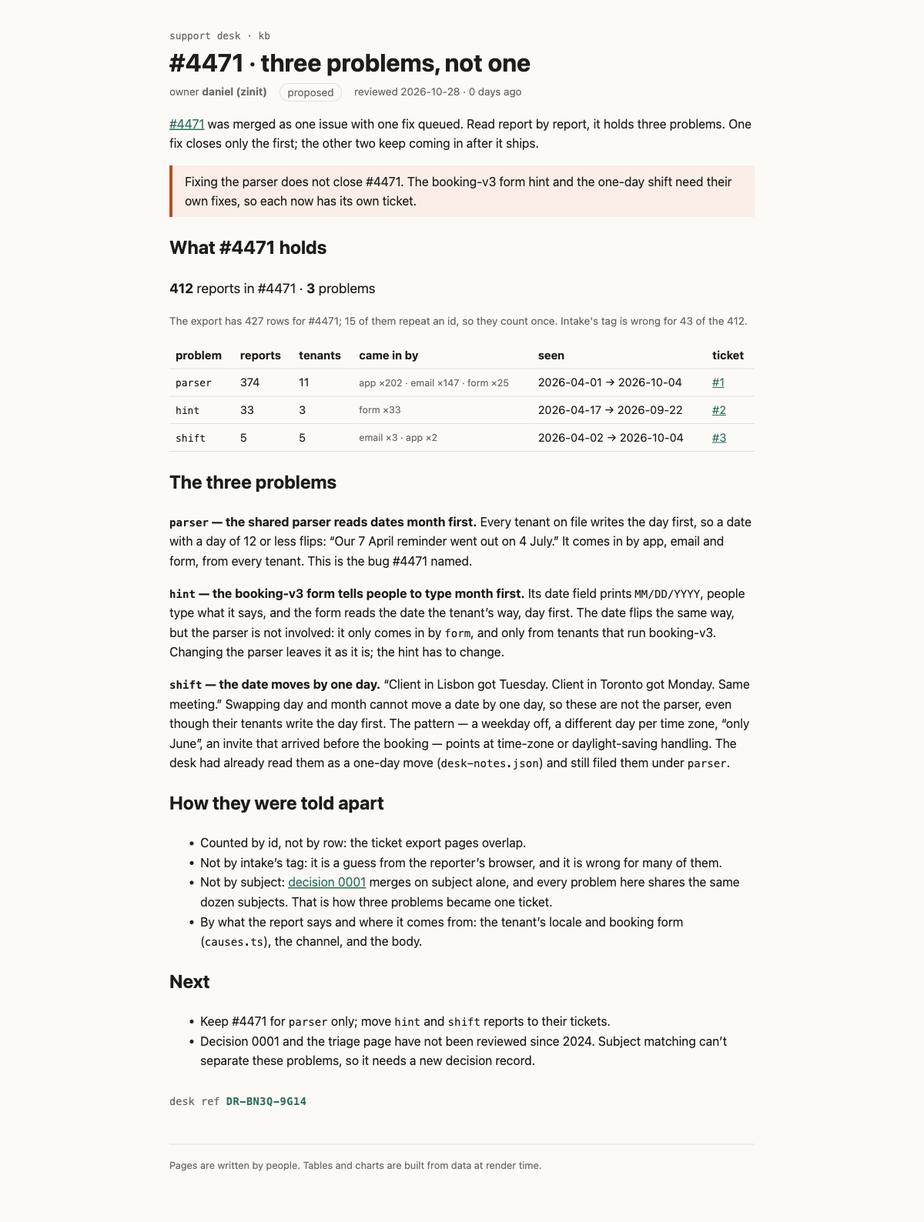
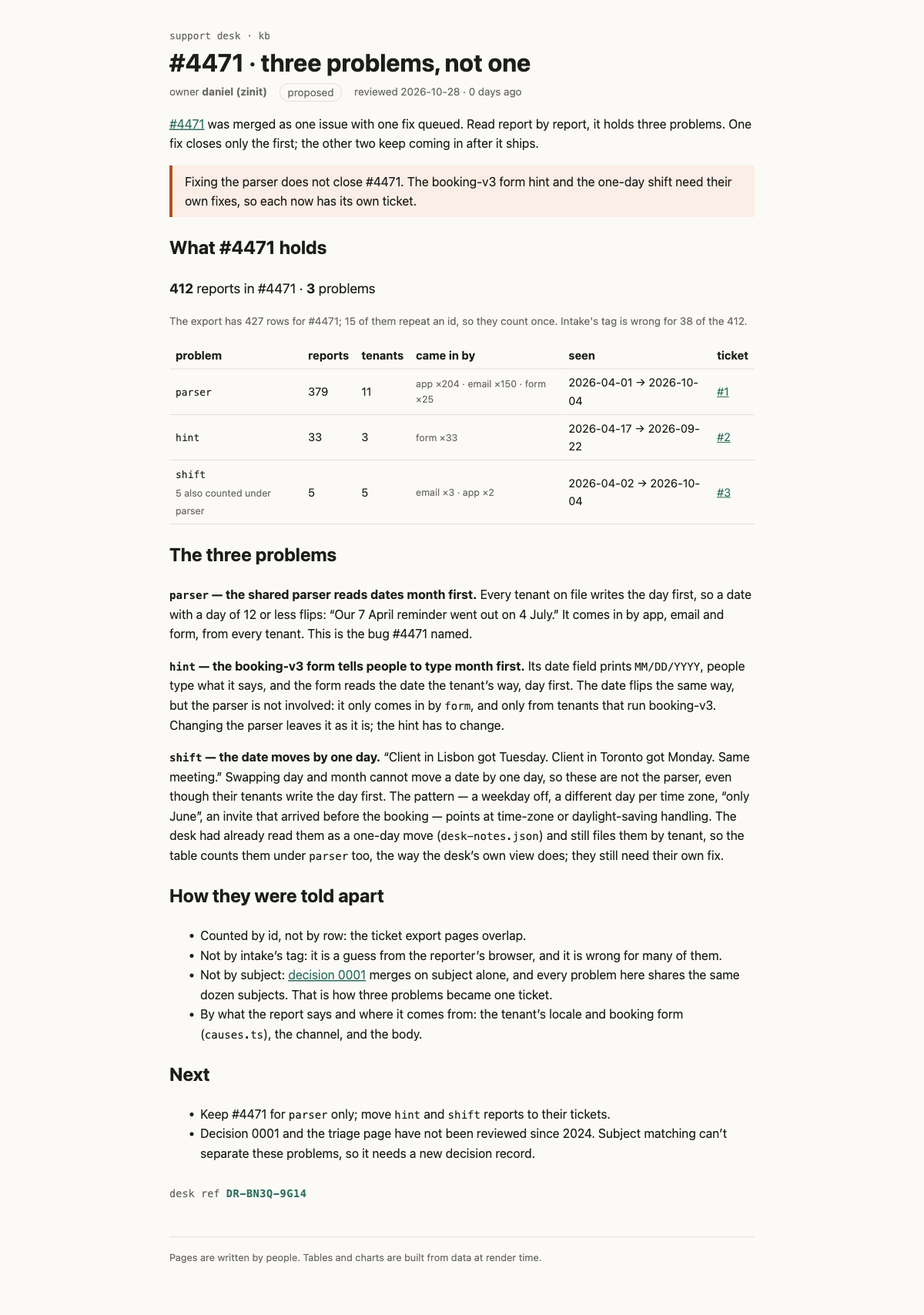
Count #4471 the way the desk's view does
parser is now 379, as in CauseTable and issue #1: the 5 one-day-shift
reports stay under parser (filed by tenant) and also show as their own
problem, shift (#3). Rebuilt page and screenshot.

diff --git a/build/kb/incidents/4471-split.html b/build/kb/incidents/4471-split.html
@@ -9,11 +9,11 @@
 		<link href="../../_app/immutable/chunks/B2Ul7l_u.js" rel="modulepreload">
 		<link href="../../_app/immutable/chunks/BCPXOG7W.js" rel="modulepreload">
 		<link href="../../_app/immutable/chunks/Dh1V97Jm.js" rel="modulepreload">
-		<link href="../../_app/immutable/entry/app.OJOM2KM1.js" rel="modulepreload">
+		<link href="../../_app/immutable/entry/app.BnFtKE7I.js" rel="modulepreload">
 		<link href="../../_app/immutable/nodes/0.C9KfiiPz.js" rel="modulepreload">
 		<link href="../../_app/immutable/chunks/DK3Fl9T5.js" rel="modulepreload">
-		<link href="../../_app/immutable/nodes/5.Ccw77O8b.js" rel="modulepreload">
-		<link href="../../_app/immutable/chunks/DW0Xgs2I.js" rel="modulepreload">
+		<link href="../../_app/immutable/nodes/5.BthChR7e.js" rel="modulepreload">
+		<link href="../../_app/immutable/chunks/DrtHdLL4.js" rel="modulepreload">
 		<link href="../../_app/immutable/chunks/BTPwLomz.js" rel="modulepreload">
 		<link href="../../_app/immutable/chunks/CVBzP17p.js" rel="modulepreload">
 		<link href="../../_app/immutable/chunks/BIy4WKJS.js" rel="modulepreload">
@@ -26,7 +26,7 @@
     <div><!--[--><!--[--><!--[0--><!--[--><!--[--><!--[-1--><!--[--><div class="kb svelte-e2jw2j"><header><a class="crumb svelte-e2jw2j" href="/kb">support desk · kb</a> <h1 class="svelte-e2jw2j">#4471 · three problems, not one</h1> <p class="meta svelte-e2jw2j"><span>owner <b>daniel (zinit)</b></span> <span class="status proposed svelte-e2jw2j">proposed</span> <span class="svelte-e2jw2j">reviewed 2026-10-28 · 0 days ago</span></p></header> <!--[-1--><!--]--> <main><p><a href="/kb/incidents/4471">#4471</a> was merged as one issue with one fix queued. Read report by report, it
 holds three problems. One fix closes only the first; the other two keep coming in after it ships.</p> <aside class="warn svelte-17bri61"><!---->Fixing the parser does not close #4471. The booking-v3 form hint and the one-day shift need their
 own fixes, so each now has its own ticket.<!----></aside><!----> <h2>What #4471 holds</h2> <p class="sum svelte-1op6c6"><strong>412</strong> reports in #4471 · <strong>3</strong> problems</p> <p class="note svelte-1op6c6">The export has 427 rows for #4471; 15 of them repeat an id, so they count once.
-  Intake's tag is wrong for 43 of the 412.</p> <table><thead><tr><th>problem</th><th>reports</th><th>tenants</th><th>came in by</th><th>seen</th><th>ticket</th></tr></thead><tbody><!--[--><tr><td><code>parser</code></td><td>374</td><td>11</td><td class="tags svelte-1op6c6">app ×202 · email ×147 · form ×25</td><td>2026-04-01 → 2026-10-04</td><td><!--[0--><a href="https://github.com/zinit/support-kb-4471/issues/1">#1</a><!--]--></td></tr><tr><td><code>hint</code></td><td>33</td><td>3</td><td class="tags svelte-1op6c6">form ×33</td><td>2026-04-17 → 2026-09-22</td><td><!--[0--><a href="https://github.com/zinit/support-kb-4471/issues/2">#2</a><!--]--></td></tr><tr><td><code>shift</code></td><td>5</td><td>5</td><td class="tags svelte-1op6c6">email ×3 · app ×2</td><td>2026-04-02 → 2026-10-04</td><td><!--[0--><a href="https://github.com/zinit/support-kb-4471/issues/3">#3</a><!--]--></td></tr><!--]--></tbody></table><!----> <h2>The three problems</h2> <p><strong><code>parser</code> — the shared parser reads dates month first.</strong> Every tenant on file writes the day
+  Intake's tag is wrong for 38 of the 412.</p> <table><thead><tr><th>problem</th><th>reports</th><th>tenants</th><th>came in by</th><th>seen</th><th>ticket</th></tr></thead><tbody><!--[--><tr><td><code>parser</code><!--[-1--><!--]--></td><td>379</td><td>11</td><td class="tags svelte-1op6c6">app ×204 · email ×150 · form ×25</td><td>2026-04-01 → 2026-10-04</td><td><!--[0--><a href="https://github.com/zinit/support-kb-4471/issues/1">#1</a><!--]--></td></tr><tr><td><code>hint</code><!--[-1--><!--]--></td><td>33</td><td>3</td><td class="tags svelte-1op6c6">form ×33</td><td>2026-04-17 → 2026-09-22</td><td><!--[0--><a href="https://github.com/zinit/support-kb-4471/issues/2">#2</a><!--]--></td></tr><tr><td><code>shift</code><!--[0--><br/><span class="tags svelte-1op6c6">5 also counted under parser</span><!--]--></td><td>5</td><td>5</td><td class="tags svelte-1op6c6">email ×3 · app ×2</td><td>2026-04-02 → 2026-10-04</td><td><!--[0--><a href="https://github.com/zinit/support-kb-4471/issues/3">#3</a><!--]--></td></tr><!--]--></tbody></table><!----> <h2>The three problems</h2> <p><strong><code>parser</code> — the shared parser reads dates month first.</strong> Every tenant on file writes the day
 first, so a date with a day of 12 or less flips: “Our 7 April reminder went out on 4 July.” It
 comes in by app, email and form, from every tenant. This is the bug #4471 named.</p> <p><strong><code>hint</code> — the booking-v3 form tells people to type month first.</strong> Its date field prints <code>MM/DD/YYYY</code>, people type what it says, and the form reads the date the tenant’s way, day first.
 The date flips the same way, but the parser is not involved: it only comes in by <code>form</code>, and only
@@ -35,7 +35,7 @@ Monday. Same meeting.” Swapping day and month cannot move a date by one day, s
 parser, even though their tenants write the day first. The pattern — a weekday off, a different
 day per time zone, “only June”, an invite that arrived before the booking — points at time-zone
 or daylight-saving handling. The desk had already read them as a one-day move
-(<code>desk-notes.json</code>) and still filed them under <code>parser</code>.</p> <h2>How they were told apart</h2> <ul><li>Counted by id, not by row: the ticket export pages overlap.</li> <li>Not by intake’s tag: it is a guess from the reporter’s browser, and it is wrong for many of them.</li> <li>Not by subject: <a href="/kb/decisions/0001-dedupe-by-subject">decision 0001</a> merges on subject alone,
+(<code>desk-notes.json</code>) and still files them by tenant, so the table counts them under <code>parser</code> too, the way the desk’s own view does; they still need their own fix.</p> <h2>How they were told apart</h2> <ul><li>Counted by id, not by row: the ticket export pages overlap.</li> <li>Not by intake’s tag: it is a guess from the reporter’s browser, and it is wrong for many of them.</li> <li>Not by subject: <a href="/kb/decisions/0001-dedupe-by-subject">decision 0001</a> merges on subject alone,
 and every problem here shares the same dozen subjects. That is how three problems became one
 ticket.</li> <li>By what the report says and where it comes from: the tenant’s locale and booking form
 (<code>causes.ts</code>), the channel, and the body.</li></ul> <h2>Next</h2> <ul><li>Keep #4471 for <code>parser</code> only; move <code>hint</code> and <code>shift</code> reports to their tickets.</li> <li>Decision 0001 and the triage page have not been reviewed since 2024. Subject matching can’t
@@ -43,16 +43,16 @@ separate these problems, so it needs a new decision record.</li></ul> <!--[0--><
 			
 			<script>
 				{
-					__sveltekit_1o5xas1 = {
+					__sveltekit_1kb5uz5 = {
 						base: new URL("../..", location).pathname.slice(0, -1),
-						version: "1793203120930"
+						version: "1793206155184"
 					};
 
 					const element = document.currentScript.parentElement;
 
 					import("../../_app/immutable/entry/start.CH5w6lId.js").then(async (kit) => {
-						kit.init(__sveltekit_1o5xas1);
-						const app = await import("../../_app/immutable/entry/app.OJOM2KM1.js");
+						kit.init(__sveltekit_1kb5uz5);
+						const app = await import("../../_app/immutable/entry/app.BnFtKE7I.js");
 						kit.start(app, element, {
 							node_ids: [0, 5],
 							data: [null,null],

diff --git a/build/_app/immutable/chunks/DrtHdLL4.js b/build/_app/immutable/chunks/DrtHdLL4.js
@@ -1,0 +1,17 @@
+import{t as e}from"./DK3Fl9T5.js";import{E as t,F as n,H as r,I as i,K as a,L as o,N as s,O as c,R as l,S as u,T as d,U as f,W as p,_ as m,c as h,h as g,k as _,n as v,q as y,r as b,t as x,w as S}from"./BCPXOG7W.js";import{t as C}from"./BTPwLomz.js";import{n as w,t as T}from"./CVBzP17p.js";import{i as E,l as D,r as O,t as k}from"./BIy4WKJS.js";function A(e,t,n={}){let r=t.map(e=>e.receivedAt.slice(0,10)).sort();return{problem:e,reports:t,alsoIn:n,tenants:[...new Set(t.map(e=>e.tenant))].sort(),channels:t.reduce((e,t)=>({...e,[t.channel]:(e[t.channel]??0)+1}),{}),firstSeen:r[0],lastSeen:r[r.length-1]}}function j(e,t,n,r){let i=D(e).filter(e=>e.mergedInto===t),a=e=>E(e,n(e))??`unplaced`,o=new Map;for(let e of i)o.set(a(e),[...o.get(a(e))??[],e]);let s=[...o.entries()].map(([e,t])=>A(e,t)).sort((e,t)=>t.reports.length-e.reports.length),c=i.filter(e=>r.includes(e.id));if(c.length){let e=c.reduce((e,t)=>({...e,[a(t)]:(e[a(t)]??0)+1}),{});s.push(A(`shift`,c,e))}return{rows:e.filter(e=>e.mergedInto===t).length,merged:i,groups:s}}function M(e){return e.filter(e=>e.problem!==`shift`).reduce((e,t)=>e+t.reports.filter(e=>e.meta.intakeTag!==t.problem).length,0)}var N=t(`<br/><span class="tags svelte-1op6c6"> </span>`,1),P=t(`<a> </a>`),F=t(`<tr><td><code> </code><!></td><td> </td><td> </td><td class="tags svelte-1op6c6"> </td><td> </td><td><!></td></tr>`),I=t(`<p class="sum svelte-1op6c6"><strong> </strong> <strong> </strong> </p> <p class="note svelte-1op6c6"> </p> <table><thead><tr><th>problem</th><th>reports</th><th>tenants</th><th>came in by</th><th>seen</th><th>ticket</th></tr></thead><tbody></tbody></table>`,1);function L(e,t){p(t,!0);let a=v(t,`issues`,19,()=>({})),d=r(()=>j(w,t.ticket,O,T.oneDayMove)),b=r(()=>M(_(d).groups)),x=e=>Object.entries(e).sort((e,t)=>t[1]-e[1]).map(([e,t])=>`${e} ×${t}`).join(` · `),C=e=>`#`+e.split(`/`).pop(),E=e=>Object.entries(e.alsoIn).map(([e,t])=>`${t} also counted under ${e}`).join(` · `);var D=I(),k=i(D),A=n(k),L=o(A,!0),R=l(A),z=l(R),B=o(z,!0),V=l(z);y(k);var H=l(k,2),U=o(H),W=l(H,2),G=l(n(W));g(G,21,()=>_(d).groups,e=>e.problem,(e,t)=>{var d=F(),f=n(d),p=n(f),g=o(p,!0),v=l(p),b=e=>{var n=N(),r=l(i(n)),a=o(r,!0);s(e=>u(a,e),[()=>E(_(t))]),S(e,n)},w=r(()=>E(_(t)));m(v,e=>{_(w)&&e(b)}),y(f);var T=l(f),D=o(T,!0),O=l(T),k=o(O,!0),A=l(O),j=o(A,!0),M=l(A),I=o(M),L=l(M),R=n(L),z=e=>{var n=P(),r=o(n,!0);s(e=>{h(n,`href`,a()[_(t).problem]),u(r,e)},[()=>C(a()[_(t).problem])]),S(e,n)},B=e=>{var t=c(`none yet`);S(e,t)};m(R,e=>{a()[_(t).problem]?e(z):e(B,-1)}),y(L),y(d),s(e=>{u(g,_(t).problem),u(D,_(t).reports.length),u(k,_(t).tenants.length),u(j,e),u(I,`${_(t).firstSeen??``} → ${_(t).lastSeen??``}`)},[()=>x(_(t).channels)]),S(e,d)}),y(G),y(W),s(()=>{u(L,_(d).merged.length),u(R,` reports in #${t.ticket??``} · `),u(B,_(d).groups.length),u(V,` ${_(d).groups.length===1?`problem`:`problems`}`),u(U,`The export has ${_(d).rows??``} rows for #${t.ticket??``}; ${_(d).rows-_(d).merged.length} of them repeat an id, so they count once.
+  Intake's tag is wrong for ${_(b)??``} of the ${_(d).merged.length??``}.`)}),S(e,D),f()}var R=`0123456789ABCDEFGHJKMNPQRSTVWXYZ`;function z(e,t){let n=t>>>0;for(let t=0;t<e.length;t++)n^=e.charCodeAt(t),n=Math.imul(n,16777619)>>>0;return n}function B(e){let t=e.trim(),n=z(t,2166136261),r=z(t,2654435769),i=BigInt(n)<<8n|BigInt(r&255),a=``;for(let e=0;e<8;e++)a=R[Number(i&31n)]+a,i>>=5n;return`DR-${a.slice(0,4)}-${a.slice(4)}`}var V=t(`<p class="stamp svelte-1280m42">desk ref <b class="svelte-1280m42"> </b></p>`),H=t(`<p class="stamp missing svelte-1280m42">no desk ref: this page isn't signed (no <code>signature</code> in its frontmatter)</p>`);function U(e,t){p(t,!0);let a=r(()=>t.signature?B(t.signature):null);var c=d(),h=i(c),g=e=>{var t=V(),r=l(n(t)),i=o(r,!0);y(t),s(()=>u(i,_(a))),S(e,t)},v=e=>{var t=H();S(e,t)};m(h,e=>{_(a)?e(g):e(v,-1)}),S(e,c),f()}var W=e({default:()=>$,metadata:()=>G}),G={layout:`runbook`,title:`#4471 · three problems, not one`,owner:`daniel (zinit)`,status:`proposed`,reviewed:`2026-10-28T00:00:00.000Z`,signature:`v1.eyJzdWIiOiIzODkiLCJhdWQiOiJjaGFsbGVuZ2U6d2hhdC1pdC1zaG93cyIsImlhdCI6MTc5MzIwMjg4NCwiZXhwIjoxNzkzMjg5Mjg0fQ.0hZym8z9fC6aI63_r2wCG0tWzW67Vh3JRD2o_1kaY8k`},{layout:K,title:q,owner:J,status:Y,reviewed:X,signature:Z}=G,Q=t(`<p><a href="/kb/incidents/4471">#4471</a> was merged as one issue with one fix queued. Read report by report, it
+holds three problems. One fix closes only the first; the other two keep coming in after it ships.</p> <!> <h2>What #4471 holds</h2> <!> <h2>The three problems</h2> <p><strong><code>parser</code> — the shared parser reads dates month first.</strong> Every tenant on file writes the day
+first, so a date with a day of 12 or less flips: “Our 7 April reminder went out on 4 July.” It
+comes in by app, email and form, from every tenant. This is the bug #4471 named.</p> <p><strong><code>hint</code> — the booking-v3 form tells people to type month first.</strong> Its date field prints <code>MM/DD/YYYY</code>, people type what it says, and the form reads the date the tenant’s way, day first.
+The date flips the same way, but the parser is not involved: it only comes in by <code>form</code>, and only
+from tenants that run booking-v3. Changing the parser leaves it as it is; the hint has to change.</p> <p><strong><code>shift</code> — the date moves by one day.</strong> “Client in Lisbon got Tuesday. Client in Toronto got
+Monday. Same meeting.” Swapping day and month cannot move a date by one day, so these are not the
+parser, even though their tenants write the day first. The pattern — a weekday off, a different
+day per time zone, “only June”, an invite that arrived before the booking — points at time-zone
+or daylight-saving handling. The desk had already read them as a one-day move
+(<code>desk-notes.json</code>) and still files them by tenant, so the table counts them under <code>parser</code> too, the way the desk’s own view does; they still need their own fix.</p> <h2>How they were told apart</h2> <ul><li>Counted by id, not by row: the ticket export pages overlap.</li> <li>Not by intake’s tag: it is a guess from the reporter’s browser, and it is wrong for many of them.</li> <li>Not by subject: <a href="/kb/decisions/0001-dedupe-by-subject">decision 0001</a> merges on subject alone,
+and every problem here shares the same dozen subjects. That is how three problems became one
+ticket.</li> <li>By what the report says and where it comes from: the tenant’s locale and booking form
+(<code>causes.ts</code>), the channel, and the body.</li></ul> <h2>Next</h2> <ul><li>Keep #4471 for <code>parser</code> only; move <code>hint</code> and <code>shift</code> reports to their tickets.</li> <li>Decision 0001 and the triage page have not been reviewed since 2024. Subject matching can’t
+separate these problems, so it needs a new decision record.</li></ul> <!>`,1);function $(e,t){let n=x(t,[`children`,`$$slots`,`$$events`,`$$legacy`]),r=`https://github.com/zinit/support-kb-4471/issues`,o={parser:`${r}/1`,hint:`${r}/2`,shift:`${r}/3`};C(e,b(()=>n,()=>G,{children:(e,t)=>{var n=Q(),r=l(i(n),2);k(r,{kind:`warn`,children:(e,t)=>{a();var n=c(`Fixing the parser does not close #4471. The booking-v3 form hint and the one-day shift need their
+own fixes, so each now has its own ticket.`);S(e,n)},$$slots:{default:!0}});var s=l(r,4);L(s,{ticket:4471,get issues(){return o}}),U(l(s,18),{get signature(){return Z}}),S(e,n)},$$slots:{default:!0}}))}export{$ as n,W as t};

diff --git a/src/lib/kb/problems.ts b/src/lib/kb/problems.ts
@@ -3,23 +3,34 @@
 import { causeOf, uniqueById, type Report, type Tenant } from '#lib/kb/causes';
 
 // `shift`: the date moves by one day (a weekday off, a different day per time zone). Swapping day
-// and month cannot do that, so these are not `parser` even when the tenant writes the day first.
-// The desk found them by reading (desk-notes.json `oneDayMove`).
+// and month cannot do that, so it needs its own fix. The desk found these by reading
+// (desk-notes.json `oneDayMove`) and still files them by tenant, so its view counts them under their
+// cause as well: they are a problem of their own, and also part of that cause's count.
 export type Problem = 'parser' | 'hint' | 'shift' | 'unplaced';
-
-export function problemOf(r: Report, t: Tenant | undefined, oneDayMove: readonly string[]): Problem {
-  if (oneDayMove.includes(r.id)) return 'shift';
-  return causeOf(r, t) ?? 'unplaced';
-}
 
 export type ProblemGroup = {
   problem: Problem;
   reports: Report[];
+  // For `shift`: the cause the desk also counts these reports under, cause → count.
+  alsoIn: Partial<Record<Problem, number>>;
   tenants: string[];
   channels: Record<string, number>;
   firstSeen: string;
   lastSeen: string;
 };
+
+function group(problem: Problem, rs: Report[], alsoIn: ProblemGroup['alsoIn'] = {}): ProblemGroup {
+  const days = rs.map((r) => r.receivedAt.slice(0, 10)).sort();
+  return {
+    problem,
+    reports: rs,
+    alsoIn,
+    tenants: [...new Set(rs.map((r) => r.tenant))].sort(),
+    channels: rs.reduce<Record<string, number>>((n, r) => ({ ...n, [r.channel]: (n[r.channel] ?? 0) + 1 }), {}),
+    firstSeen: days[0],
+    lastSeen: days[days.length - 1],
+  };
+}
 
 export function splitTicket(
   all: Report[],
@@ -28,28 +39,22 @@ export function splitTicket(
   oneDayMove: readonly string[],
 ): { rows: number; merged: Report[]; groups: ProblemGroup[] } {
   const merged = uniqueById(all).filter((r) => r.mergedInto === ticket);
+  const cause = (r: Report): Problem => causeOf(r, tenantOf(r)) ?? 'unplaced';
   const by = new Map<Problem, Report[]>();
-  for (const r of merged) {
-    const p = problemOf(r, tenantOf(r), oneDayMove);
-    by.set(p, [...(by.get(p) ?? []), r]);
+  for (const r of merged) by.set(cause(r), [...(by.get(cause(r)) ?? []), r]);
+  const groups = [...by.entries()].map(([p, rs]) => group(p, rs)).sort((a, b) => b.reports.length - a.reports.length);
+
+  const shifted = merged.filter((r) => oneDayMove.includes(r.id));
+  if (shifted.length) {
+    const alsoIn = shifted.reduce<ProblemGroup['alsoIn']>((n, r) => ({ ...n, [cause(r)]: (n[cause(r)] ?? 0) + 1 }), {});
+    groups.push(group('shift', shifted, alsoIn));
   }
-  const groups = [...by.entries()]
-    .map(([problem, rs]) => {
-      const days = rs.map((r) => r.receivedAt.slice(0, 10)).sort();
-      return {
-        problem,
-        reports: rs,
-        tenants: [...new Set(rs.map((r) => r.tenant))].sort(),
-        channels: rs.reduce<Record<string, number>>((n, r) => ({ ...n, [r.channel]: (n[r.channel] ?? 0) + 1 }), {}),
-        firstSeen: days[0],
-        lastSeen: days[days.length - 1],
-      };
-    })
-    .sort((a, b) => b.reports.length - a.reports.length);
   return { rows: all.filter((r) => r.mergedInto === ticket).length, merged, groups };
 }
 
-// What intake tagged the merged reports as, against what they are.
+// Reports whose intake tag names a different cause than the one they belong to.
 export function tagMisses(groups: ProblemGroup[]): number {
-  return groups.reduce((n, g) => n + g.reports.filter((r) => r.meta.intakeTag !== g.problem).length, 0);
+  return groups
+    .filter((g) => g.problem !== 'shift')
+    .reduce((n, g) => n + g.reports.filter((r) => r.meta.intakeTag !== g.problem).length, 0);
 }

diff --git a/build/_app/immutable/nodes/2.Bys0thjK.js b/build/_app/immutable/nodes/2.Bys0thjK.js
@@ -1,0 +1,2 @@
+import{E as e,F as t,I as n,K as r,L as i,N as a,R as o,S as s,U as c,W as l,c as u,d,h as f,i as p,k as m,q as h,r as g,t as _,w as v}from"../chunks/BCPXOG7W.js";import{n as y,r as b,t as x}from"../chunks/BTPwLomz.js";import{t as S}from"../chunks/YX22L_Ud.js";import{t as C}from"../chunks/CgeRC4yK.js";import{t as w}from"../chunks/DrtHdLL4.js";import{t as T}from"../chunks/BGqJVSDw.js";var E=e(`<tr><td><a> </a></td><td> </td><td> </td><td> </td></tr>`),D=e(`<table><thead><tr><th>page</th><th>owner</th><th>status</th><th>reviewed</th></tr></thead><tbody></tbody></table>`);function O(e,n){l(n,!1);let r=Object.entries(Object.assign({"/src/routes/kb/decisions/0001-dedupe-by-subject/+page.svx":S,"/src/routes/kb/incidents/4471/+page.svx":C,"/src/routes/kb/incidents/4471-split/+page.svx":w,"/src/routes/kb/triage/dedupe/+page.svx":T})).map(([e,t])=>({href:e.replace(`/src/routes`,``).replace(`/+page.svx`,``),...t.metadata})).sort((e,t)=>e.href.localeCompare(t.href));p();var g=D(),_=o(t(g));f(_,5,()=>r,e=>e.href,(e,n)=>{var r=E(),c=t(r),l=t(c),f=i(l,!0);h(c);var p=o(c),g=i(p,!0),_=o(p),x=i(_,!0),S=o(_);let C;var w=i(S,!0);h(r),a((e,t)=>{u(l,`href`,m(n).href),s(f,m(n).title),s(g,m(n).owner),s(x,m(n).status),C=d(S,1,`svelte-tbc1ha`,null,C,{stale:e}),s(w,t)},[()=>y(m(n).reviewed)>180,()=>b(m(n).reviewed)]),v(e,r)}),h(_),h(g),v(e,g),c()}var k={layout:`runbook`,title:`Support knowledge base`,owner:`support desk`,status:`living`,reviewed:`2026-09-28T00:00:00.000Z`},{layout:A,title:j,owner:M,status:N,reviewed:P}=k,F=e(`<p>What the support desk knows, kept next to the code that knows it. One desk, every product: <code>sched-prod</code> (calendar invites for about 300k people) and the rest. When something breaks, the reports land here first.</p> <p>Start with <a href="/kb/triage/dedupe">triage</a> if you are new on the desk.</p> <h2>Pages</h2> <!> <h2>Writing a page</h2> <p>Keep the words here and the logic in <code>src/lib</code>. A number that can be computed should be
+computed by a component, not typed into a paragraph.</p>`,1);function I(e,t){let i=_(t,[`children`,`$$slots`,`$$events`,`$$legacy`]);x(e,g(()=>i,()=>k,{children:(e,t)=>{var i=F();O(o(n(i),6),{}),r(4),v(e,i)},$$slots:{default:!0}}))}export{I as component};

diff --git a/build/kb.html b/build/kb.html
@@ -9,16 +9,16 @@
 		<link href="./_app/immutable/chunks/B2Ul7l_u.js" rel="modulepreload">
 		<link href="./_app/immutable/chunks/BCPXOG7W.js" rel="modulepreload">
 		<link href="./_app/immutable/chunks/Dh1V97Jm.js" rel="modulepreload">
-		<link href="./_app/immutable/entry/app.OJOM2KM1.js" rel="modulepreload">
+		<link href="./_app/immutable/entry/app.BnFtKE7I.js" rel="modulepreload">
 		<link href="./_app/immutable/nodes/0.C9KfiiPz.js" rel="modulepreload">
 		<link href="./_app/immutable/chunks/DK3Fl9T5.js" rel="modulepreload">
-		<link href="./_app/immutable/nodes/2.DELOjK7q.js" rel="modulepreload">
+		<link href="./_app/immutable/nodes/2.Bys0thjK.js" rel="modulepreload">
 		<link href="./_app/immutable/chunks/BTPwLomz.js" rel="modulepreload">
 		<link href="./_app/immutable/chunks/YX22L_Ud.js" rel="modulepreload">
 		<link href="./_app/immutable/chunks/CgeRC4yK.js" rel="modulepreload">
 		<link href="./_app/immutable/chunks/CVBzP17p.js" rel="modulepreload">
 		<link href="./_app/immutable/chunks/BIy4WKJS.js" rel="modulepreload">
-		<link href="./_app/immutable/chunks/DW0Xgs2I.js" rel="modulepreload">
+		<link href="./_app/immutable/chunks/DrtHdLL4.js" rel="modulepreload">
 		<link href="./_app/immutable/chunks/BGqJVSDw.js" rel="modulepreload">
 		<!--e2jw2j--><!----><title>Support knowledge base · support kb</title>
 		<link href="./_app/immutable/assets/runbook.COyw0cbZ.css" rel="stylesheet">
@@ -34,16 +34,16 @@ computed by a component, not typed into a paragraph.</p><!----></main> <footer c
 			
 			<script>
 				{
-					__sveltekit_1o5xas1 = {
+					__sveltekit_1kb5uz5 = {
 						base: new URL(".", location).pathname.slice(0, -1),
-						version: "1793203120930"
+						version: "1793206155184"
 					};
 
 					const element = document.currentScript.parentElement;
 
 					import("./_app/immutable/entry/start.CH5w6lId.js").then(async (kit) => {
-						kit.init(__sveltekit_1o5xas1);
-						const app = await import("./_app/immutable/entry/app.OJOM2KM1.js");
+						kit.init(__sveltekit_1kb5uz5);
+						const app = await import("./_app/immutable/entry/app.BnFtKE7I.js");
 						kit.start(app, element, {
 							node_ids: [0, 2],
 							data: [null,null],

diff --git a/build/_app/immutable/entry/app.BnFtKE7I.js b/build/_app/immutable/entry/app.BnFtKE7I.js
@@ -1,0 +1,2 @@
+const __vite__mapDeps=(i,m=__vite__mapDeps,d=(m.f||(m.f=["../nodes/0.C9KfiiPz.js","../chunks/DK3Fl9T5.js","../chunks/BCPXOG7W.js","../nodes/1.mOwa9YdW.js","../chunks/Dh1V97Jm.js","./payload.DSmR2FwN.js","../nodes/2.Bys0thjK.js","../chunks/BTPwLomz.js","../assets/runbook.COyw0cbZ.css","../chunks/YX22L_Ud.js","../chunks/CgeRC4yK.js","../chunks/CVBzP17p.js","../chunks/BIy4WKJS.js","../assets/Callout.AbLv9dM_.css","../assets/_page.D56XP2ro.css","../chunks/DrtHdLL4.js","../assets/_page.BFid5JGs.css","../chunks/BGqJVSDw.js","../assets/_page.DO6Yid7X.css","../assets/2.Bt0MwIZg.css","../nodes/3.DRxPfvn3.js","../nodes/4.rt2PfD_4.js","../nodes/5.BthChR7e.js","../nodes/6.sFtxrtyV.js"])))=>i.map(i=>d[i]);
+import{t as e}from"../chunks/CRzLMJPS.js";var t={},n=[()=>e(()=>import(`../nodes/0.C9KfiiPz.js`),__vite__mapDeps([0,1,2]),import.meta.url),()=>e(()=>import(`../nodes/1.mOwa9YdW.js`),__vite__mapDeps([3,2,4,5]),import.meta.url),()=>e(()=>import(`../nodes/2.Bys0thjK.js`),__vite__mapDeps([6,2,7,8,9,1,10,11,12,13,14,15,16,17,18,19]),import.meta.url),()=>e(()=>import(`../nodes/3.DRxPfvn3.js`),__vite__mapDeps([20,9,1,2,7,8]),import.meta.url),()=>e(()=>import(`../nodes/4.rt2PfD_4.js`),__vite__mapDeps([21,10,1,2,7,8,11,12,13,14]),import.meta.url),()=>e(()=>import(`../nodes/5.BthChR7e.js`),__vite__mapDeps([22,15,1,2,7,8,11,12,13,16]),import.meta.url),()=>e(()=>import(`../nodes/6.sFtxrtyV.js`),__vite__mapDeps([23,17,1,2,7,8,12,13,18]),import.meta.url)],r=[],i={"/kb":[2],"/kb/decisions/0001-dedupe-by-subject":[3],"/kb/incidents/4471-split":[5],"/kb/incidents/4471":[4],"/kb/triage/dedupe":[6]},a={handleError:(({kind:e,error:t})=>{e===`unknown`&&console.error(t)}),reroute:(()=>{}),transport:{}},o=Object.fromEntries(Object.entries(a.transport).map(([e,t])=>[e,t.decode])),s=Object.fromEntries(Object.entries(a.transport).map(([e,t])=>[e,t.encode])),c=!1,l=(e,t)=>o[e](t),u=()=>e(()=>import(`../chunks/Bjy-W4x2.js`).then(e=>e.default),[],import.meta.url);export{l as decode,o as decoders,i as dictionary,s as encoders,u as get_error_template,c as hash,a as hooks,t as matchers,n as nodes,r as server_loads};

diff --git a/build/kb/decisions/0001-dedupe-by-subject.html b/build/kb/decisions/0001-dedupe-by-subject.html
@@ -9,7 +9,7 @@
 		<link href="../../_app/immutable/chunks/B2Ul7l_u.js" rel="modulepreload">
 		<link href="../../_app/immutable/chunks/BCPXOG7W.js" rel="modulepreload">
 		<link href="../../_app/immutable/chunks/Dh1V97Jm.js" rel="modulepreload">
-		<link href="../../_app/immutable/entry/app.OJOM2KM1.js" rel="modulepreload">
+		<link href="../../_app/immutable/entry/app.BnFtKE7I.js" rel="modulepreload">
 		<link href="../../_app/immutable/nodes/0.C9KfiiPz.js" rel="modulepreload">
 		<link href="../../_app/immutable/chunks/DK3Fl9T5.js" rel="modulepreload">
 		<link href="../../_app/immutable/nodes/3.DRxPfvn3.js" rel="modulepreload">
@@ -26,16 +26,16 @@ engineering merges them later.</li></ul><!----></main> <footer class="svelte-e2j
 			
 			<script>
 				{
-					__sveltekit_1o5xas1 = {
+					__sveltekit_1kb5uz5 = {
 						base: new URL("../..", location).pathname.slice(0, -1),
-						version: "1793203120930"
+						version: "1793206155184"
 					};
 
 					const element = document.currentScript.parentElement;
 
 					import("../../_app/immutable/entry/start.CH5w6lId.js").then(async (kit) => {
-						kit.init(__sveltekit_1o5xas1);
-						const app = await import("../../_app/immutable/entry/app.OJOM2KM1.js");
+						kit.init(__sveltekit_1kb5uz5);
+						const app = await import("../../_app/immutable/entry/app.BnFtKE7I.js");
 						kit.start(app, element, {
 							node_ids: [0, 3],
 							data: [null,null],

diff --git a/build/kb/incidents/4471.html b/build/kb/incidents/4471.html
@@ -9,7 +9,7 @@
 		<link href="../../_app/immutable/chunks/B2Ul7l_u.js" rel="modulepreload">
 		<link href="../../_app/immutable/chunks/BCPXOG7W.js" rel="modulepreload">
 		<link href="../../_app/immutable/chunks/Dh1V97Jm.js" rel="modulepreload">
-		<link href="../../_app/immutable/entry/app.OJOM2KM1.js" rel="modulepreload">
+		<link href="../../_app/immutable/entry/app.BnFtKE7I.js" rel="modulepreload">
 		<link href="../../_app/immutable/nodes/0.C9KfiiPz.js" rel="modulepreload">
 		<link href="../../_app/immutable/chunks/DK3Fl9T5.js" rel="modulepreload">
 		<link href="../../_app/immutable/nodes/4.rt2PfD_4.js" rel="modulepreload">
@@ -29,16 +29,16 @@ first. The fix is queued.</p> <aside class="note svelte-17bri61"><!---->Known. O
 			
 			<script>
 				{
-					__sveltekit_1o5xas1 = {
+					__sveltekit_1kb5uz5 = {
 						base: new URL("../..", location).pathname.slice(0, -1),
-						version: "1793203120930"
+						version: "1793206155184"
 					};
 
 					const element = document.currentScript.parentElement;
 
 					import("../../_app/immutable/entry/start.CH5w6lId.js").then(async (kit) => {
-						kit.init(__sveltekit_1o5xas1);
-						const app = await import("../../_app/immutable/entry/app.OJOM2KM1.js");
+						kit.init(__sveltekit_1kb5uz5);
+						const app = await import("../../_app/immutable/entry/app.BnFtKE7I.js");
 						kit.start(app, element, {
 							node_ids: [0, 4],
 							data: [null,null],

diff --git a/build/kb/triage/dedupe.html b/build/kb/triage/dedupe.html
@@ -9,7 +9,7 @@
 		<link href="../../_app/immutable/chunks/B2Ul7l_u.js" rel="modulepreload">
 		<link href="../../_app/immutable/chunks/BCPXOG7W.js" rel="modulepreload">
 		<link href="../../_app/immutable/chunks/Dh1V97Jm.js" rel="modulepreload">
-		<link href="../../_app/immutable/entry/app.OJOM2KM1.js" rel="modulepreload">
+		<link href="../../_app/immutable/entry/app.BnFtKE7I.js" rel="modulepreload">
 		<link href="../../_app/immutable/nodes/0.C9KfiiPz.js" rel="modulepreload">
 		<link href="../../_app/immutable/chunks/DK3Fl9T5.js" rel="modulepreload">
 		<link href="../../_app/immutable/nodes/6.sFtxrtyV.js" rel="modulepreload">
@@ -29,16 +29,16 @@ anything else.<!----></aside><!----> <h2>Try it</h2> <div class="try svelte-gq0h
 			
 			<script>
 				{
-					__sveltekit_1o5xas1 = {
+					__sveltekit_1kb5uz5 = {
 						base: new URL("../..", location).pathname.slice(0, -1),
-						version: "1793203120930"
+						version: "1793206155184"
 					};
 
 					const element = document.currentScript.parentElement;
 
 					import("../../_app/immutable/entry/start.CH5w6lId.js").then(async (kit) => {
-						kit.init(__sveltekit_1o5xas1);
-						const app = await import("../../_app/immutable/entry/app.OJOM2KM1.js");
+						kit.init(__sveltekit_1kb5uz5);
+						const app = await import("../../_app/immutable/entry/app.BnFtKE7I.js");
 						kit.start(app, element, {
 							node_ids: [0, 6],
 							data: [null,null],

diff --git a/src/lib/kb/ProblemTable.svelte b/src/lib/kb/ProblemTable.svelte
@@ -16,6 +16,8 @@
       .map(([ch, n]) => `${ch} ×${n}`)
       .join(' · ');
   const issueNo = (url: string) => '#' + url.split('/').pop();
+  const also = (g: { alsoIn: Partial<Record<Problem, number>> }) =>
+    Object.entries(g.alsoIn).map(([p, n]) => `${n} also counted under ${p}`).join(' · ');
 </script>
 
 <p class="sum">
@@ -35,7 +37,7 @@
   <tbody>
     {#each split.groups as g (g.problem)}
       <tr>
-        <td><code>{g.problem}</code></td>
+        <td><code>{g.problem}</code>{#if also(g)}<br /><span class="tags">{also(g)}</span>{/if}</td>
         <td>{g.reports.length}</td>
         <td>{g.tenants.length}</td>
         <td class="tags">{channels(g.channels)}</td>

diff --git a/build/_app/immutable/nodes/5.BthChR7e.js b/build/_app/immutable/nodes/5.BthChR7e.js
@@ -1,0 +1,1 @@
+export{n as component}from"../chunks/DrtHdLL4.js";
